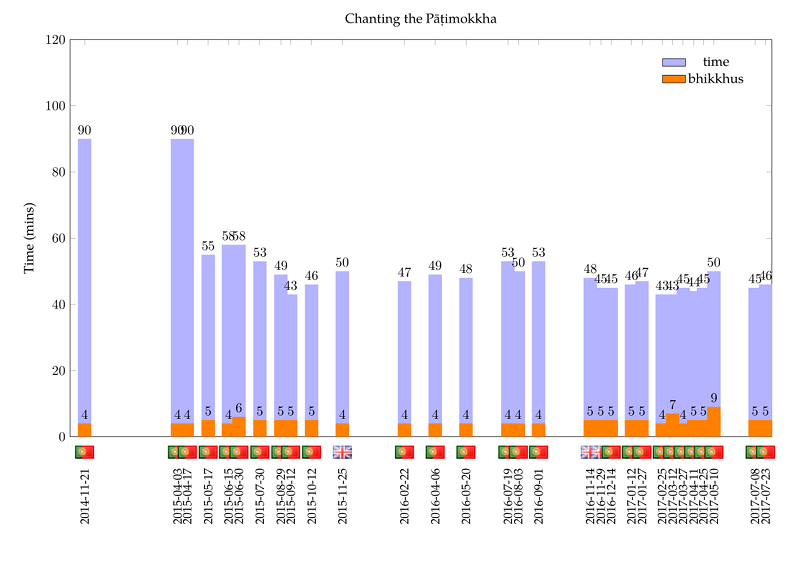
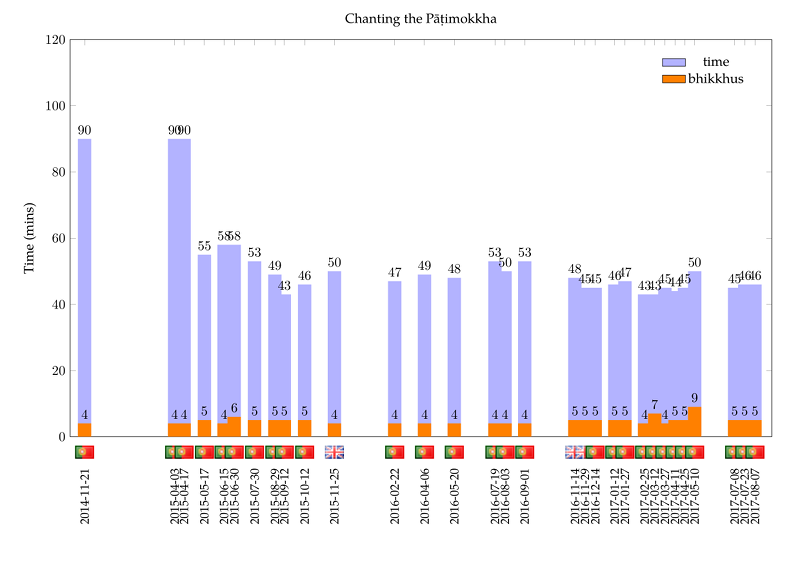
upd

Changed region(s): [[0.4688, 0.422, 0.9688, 0.9344], [0.1875, 0.2713, 0.4375, 0.9344], [0.1875, 0.211, 0.25, 0.2411]]

diff --git a/src/patimokkha-chanting-chart.tex b/src/patimokkha-chanting-chart.tex
@@ -54,7 +54,7 @@
     ylabel=Time (mins),
     xtick=data,
     xmin=2014-11-20,
-    xmax=2017-08-01,
+    xmax=2017-09-01,
     enlarge x limits={rel=0.02,lower},
     xticklabel style={yshift=-20pt,rotate=90,anchor=east,font=\small},
     xticklabel={\year-\month-\day},
@@ -113,6 +113,7 @@
   \node [anchor=south, yshift=-20pt] at (axis cs:2017-05-10,0) {\includegraphics[width=5mm]{pt}};
   \node [anchor=south, yshift=-20pt] at (axis cs:2017-07-08,0) {\includegraphics[width=5mm]{pt}};
   \node [anchor=south, yshift=-20pt] at (axis cs:2017-07-23,0) {\includegraphics[width=5mm]{pt}};
+  \node [anchor=south, yshift=-20pt] at (axis cs:2017-08-07,0) {\includegraphics[width=5mm]{pt}};
 
 \end{axis}
 \end{tikzpicture}
